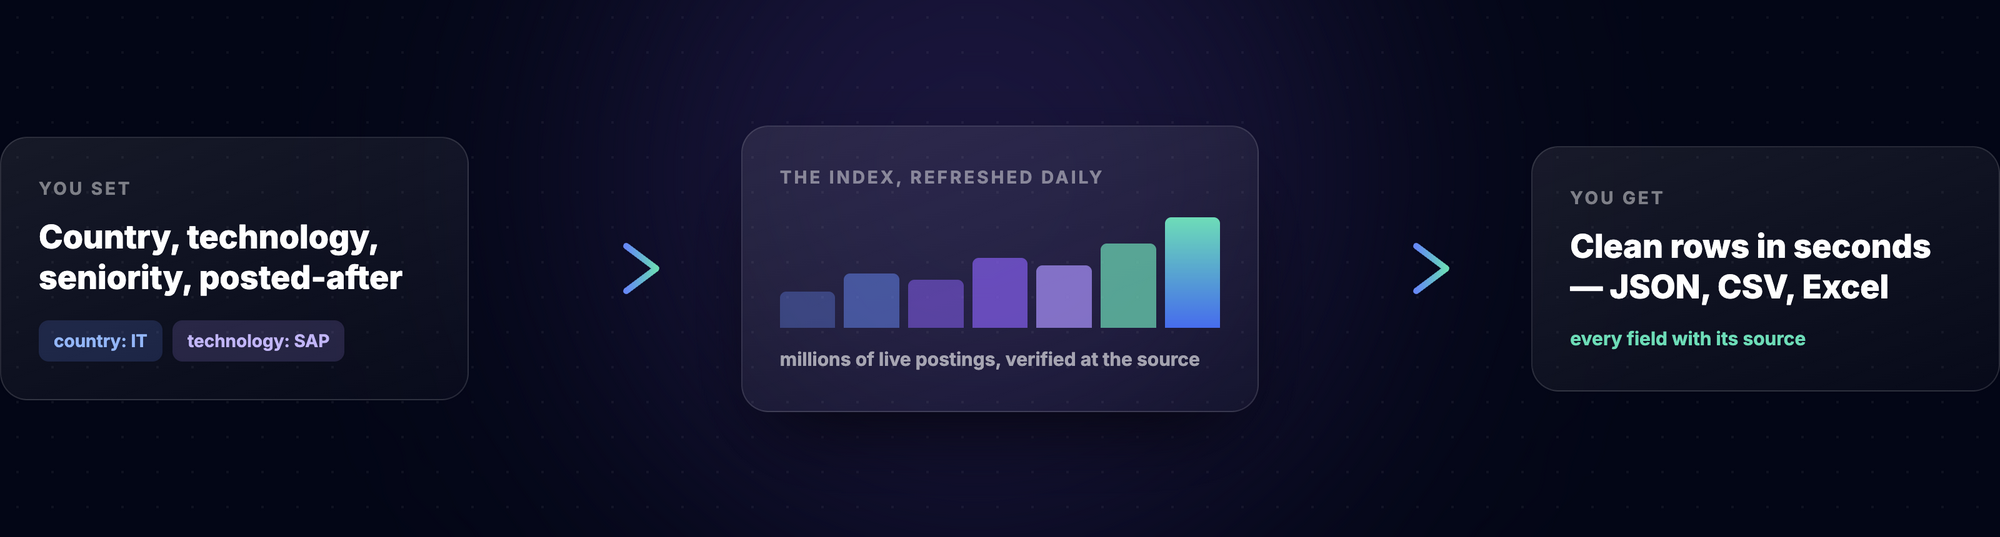
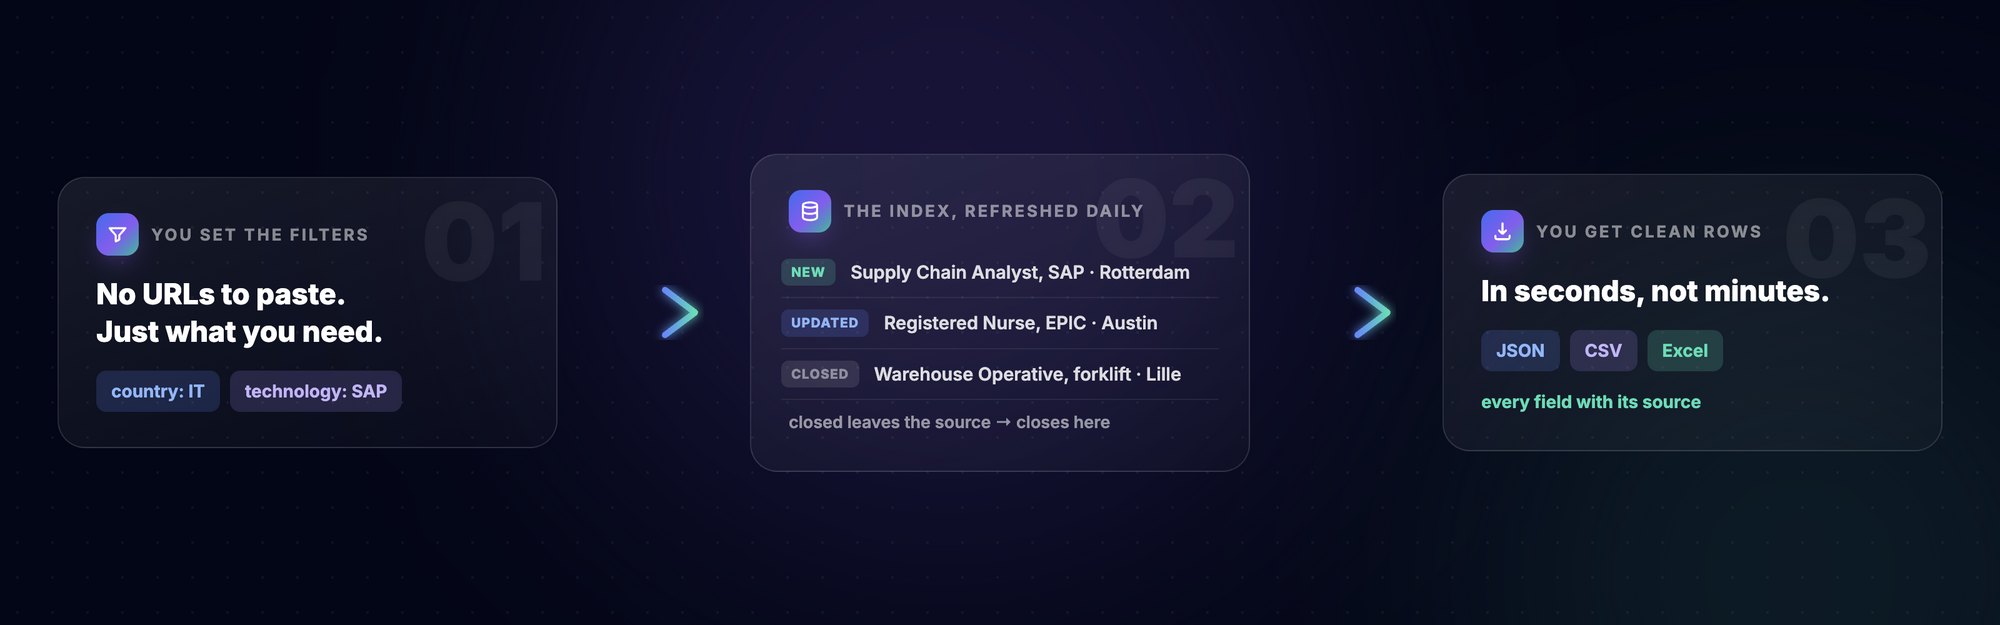
apify: il diagramma v2 su misura per ogni Actor (la sua query nei chip, le sue aziende vere nel feed NEW/UPDATED/CLOSED, frecce con alone, numeri di passo) e la tabella che porta il nostro nome: «Nivult Dataset API», non «this dataset». Quattro pagine, quattro vestiti propri

diff --git a/apify/assets/genera_come_funziona.py b/apify/assets/genera_come_funziona.py
@@ -1,0 +1,114 @@
+#!/usr/bin/env python3
+"""Il diagramma «come funziona» per i README Apify — v2, su misura per
+ogni Actor (06/10/2026). Tre stazioni con icone, il mini-feed di offerte
+vere della nicchia in mezzo (NEW/UPDATED/CLOSED come nella landing),
+frecce gradiente con alone. Rende 4 varianti in vetrina/_come_*.html.
+
+    python apify/assets/genera_come_funziona.py
+"""
+
+BASE_HEAD = """<!DOCTYPE html><html><head><meta charset="utf-8">
+<script src="https://cdn.tailwindcss.com"></script>
+<link href="https://fonts.googleapis.com/css2?family=Inter:wght@500;600;700;800;900&family=JetBrains+Mono:wght@500;600&display=swap" rel="stylesheet">
+<style>body{margin:0}</style></head><body>"""
+
+FRECCIA = """<svg width="86" height="64" viewBox="0 0 86 64" style="flex-shrink:0">
+<defs><linearGradient id="f{id}" x1="0" x2="1"><stop offset="0" stop-color="#5e8bff"/><stop offset="1" stop-color="#2fe0b6"/></linearGradient>
+<filter id="glow{id}"><feGaussianBlur stdDeviation="4" result="b"/><feMerge><feMergeNode in="b"/><feMergeNode in="SourceGraphic"/></feMerge></filter></defs>
+<g filter="url(#glow{id})"><path d="M6 32 H64" stroke="url(#f{id})" stroke-width="5" stroke-linecap="round"/>
+<path d="M52 14 L76 32 L52 50" fill="none" stroke="url(#f{id})" stroke-width="5" stroke-linecap="round" stroke-linejoin="round"/></g></svg>"""
+
+ICONA = {
+    "filtro": '<svg width="17" height="17" viewBox="0 0 24 24" fill="none" stroke="white" stroke-width="2.3" stroke-linecap="round" stroke-linejoin="round"><path d="M3 5h18l-7 8v5l-4 2v-7z"/></svg>',
+    "indice": '<svg width="17" height="17" viewBox="0 0 24 24" fill="none" stroke="white" stroke-width="2.3" stroke-linecap="round" stroke-linejoin="round"><ellipse cx="12" cy="5" rx="8" ry="3"/><path d="M4 5v14c0 1.7 3.6 3 8 3s8-1.3 8-3V5"/><path d="M4 12c0 1.7 3.6 3 8 3s8-1.3 8-3"/></svg>',
+    "download": '<svg width="17" height="17" viewBox="0 0 24 24" fill="none" stroke="white" stroke-width="2.3" stroke-linecap="round" stroke-linejoin="round"><path d="M12 3v12m0 0 4-4m-4 4-4-4"/><path d="M4 17v2a2 2 0 0 0 2 2h12a2 2 0 0 0 2-2v-2"/></svg>',
+}
+
+BADGE = {"NEW": ("rgba(47,224,182,.18)", "#2fe0b6"),
+         "UPDATED": ("rgba(94,139,255,.18)", "#8ab8ff"),
+         "CLOSED": ("rgba(255,255,255,.10)", "rgba(255,255,255,.45)")}
+
+
+def card(num, icona, titolo, corpo, extra=""):
+    return f"""
+    <div style="width:400px;border-radius:22px;border:1px solid rgba(255,255,255,.12);background:linear-gradient(160deg,rgba(255,255,255,.08),rgba(255,255,255,.02));padding:28px 30px;position:relative;overflow:hidden">
+      <span style="position:absolute;top:-14px;right:8px;font-size:86px;font-weight:900;color:rgba(255,255,255,.05);font-family:Inter">{num}</span>
+      <div style="display:flex;align-items:center;gap:10px">
+        <span style="width:34px;height:34px;border-radius:10px;background:linear-gradient(135deg,#3b6ef6,#8b5cf6 55%,#0fbf9a);display:grid;place-items:center;box-shadow:0 8px 20px -6px rgba(139,92,246,.5)">{ICONA[icona]}</span>
+        <p style="margin:0;color:rgba(255,255,255,.5);font-size:13px;font-weight:700;letter-spacing:.14em;font-family:Inter">{titolo}</p>
+      </div>
+      <div style="margin-top:16px">{corpo}</div>{extra}
+    </div>"""
+
+
+def chips(cc):
+    return "".join(
+        f'<span style="border-radius:8px;background:{bg};color:{fg};font-weight:700;font-size:14px;padding:6px 12px;font-family:Inter">{t}</span>'
+        for t, bg, fg in cc)
+
+
+def feed(righe):
+    out = []
+    for badge, testo in righe:
+        bg, fg = BADGE[badge]
+        out.append(f"""
+        <div style="display:flex;align-items:center;gap:12px;padding:9px 0;border-bottom:1px solid rgba(255,255,255,.07)">
+          <span style="border-radius:6px;background:{bg};color:{fg};font-weight:800;font-size:10.5px;padding:3px 8px;letter-spacing:.06em;font-family:Inter;flex-shrink:0">{badge}</span>
+          <span style="color:rgba(255,255,255,.85);font-size:14.5px;font-weight:600;font-family:Inter;white-space:nowrap;overflow:hidden;text-overflow:ellipsis">{testo}</span>
+        </div>""")
+    return "".join(out)
+
+
+def pagina(chip1, righe_feed):
+    c1 = card("01", "filtro", "YOU SET THE FILTERS",
+              f'<p style="margin:0;color:white;font-size:23px;font-weight:800;line-height:1.3;font-family:Inter">No URLs to paste.<br>Just what you need.</p>'
+              f'<div style="margin-top:16px;display:flex;gap:8px;flex-wrap:wrap">{chips(chip1)}</div>')
+    c2 = card("02", "indice", "THE INDEX, REFRESHED DAILY",
+              f'<div style="margin:-4px -6px">{feed(righe_feed)}</div>'
+              '<p style="margin:12px 0 0;color:rgba(255,255,255,.55);font-size:13.5px;font-weight:600;font-family:Inter">closed leaves the source &rarr; closes here</p>')
+    c3 = card("03", "download", "YOU GET CLEAN ROWS",
+              '<p style="margin:0;color:white;font-size:23px;font-weight:800;line-height:1.3;font-family:Inter">In seconds, not minutes.</p>'
+              f'<div style="margin-top:16px;display:flex;gap:8px;flex-wrap:wrap">{chips([("JSON", "rgba(94,139,255,.18)", "#8ab8ff"), ("CSV", "rgba(167,139,250,.18)", "#c4b5fd"), ("Excel", "rgba(47,224,182,.18)", "#2fe0b6")])}</div>'
+              '<p style="margin:14px 0 0;color:#2fe0b6;font-size:14px;font-weight:700;font-family:Inter">every field with its source</p>')
+    return BASE_HEAD + f"""
+<div style="width:1600px;height:500px;position:relative;overflow:hidden;background:#020617;font-family:Inter,sans-serif">
+  <div style="position:absolute;top:-170px;left:28%;width:620px;height:620px;border-radius:50%;background:#8b5cf6;opacity:.16;filter:blur(120px)"></div>
+  <div style="position:absolute;bottom:-220px;right:-100px;width:520px;height:520px;border-radius:50%;background:#0fbf9a;opacity:.12;filter:blur(110px)"></div>
+  <div style="position:absolute;inset:0;background-image:radial-gradient(rgba(255,255,255,.05) 1.2px,transparent 1.2px);background-size:28px 28px"></div>
+  <div style="position:absolute;inset:0;display:flex;align-items:center;justify-content:center;gap:34px">
+    {c1}{FRECCIA.format(id="a")}{c2}{FRECCIA.format(id="b")}{c3}
+  </div>
+</div></body></html>"""
+
+
+VARIANTI = {
+    "principale": (
+        [("country: IT", "rgba(94,139,255,.18)", "#8ab8ff"),
+         ("technology: SAP", "rgba(167,139,250,.18)", "#c4b5fd")],
+        [("NEW", "Supply Chain Analyst, SAP · Rotterdam"),
+         ("UPDATED", "Registered Nurse, EPIC · Austin"),
+         ("CLOSED", "Warehouse Operative, forklift · Lille")]),
+    "workday": (
+        [("ats: workday", "rgba(47,224,182,.18)", "#2fe0b6"),
+         ("country: DE", "rgba(94,139,255,.18)", "#8ab8ff")],
+        [("NEW", "Manager, Finance &amp; Strategy · Flextronics"),
+         ("UPDATED", "Pflegefachkraft (m/w/d) · Stuttgart"),
+         ("CLOSED", "Werkstudent Quality · Quality Mgmt")]),
+    "greenhouse": (
+        [("ats: greenhouse", "rgba(47,224,182,.18)", "#2fe0b6"),
+         ("remote", "rgba(94,139,255,.18)", "#8ab8ff")],
+        [("NEW", "Analytics Engineer · VTEX"),
+         ("NEW", "Backend Engineer, Python · Berlin"),
+         ("CLOSED", "Biomedical Scientist · Hertfordshire")]),
+    "tecnologie": (
+        [("technology: Snowflake", "rgba(167,139,250,.18)", "#c4b5fd"),
+         ("posted-after", "rgba(94,139,255,.18)", "#8ab8ff")],
+        [("NEW", "Delivery Manager · Hanover"),
+         ("NEW", "Senior IT Data Engineer · Springdale"),
+         ("UPDATED", "Senior BI Analyst · Cape Town")]),
+}
+
+if __name__ == "__main__":
+    for nome, (cc, righe) in VARIANTI.items():
+        open(f"vetrina/_come_{nome}.html", "w").write(pagina(cc, righe))
+        print("generata:", nome)

diff --git a/apify/greenhouse-jobs-dataset/README.md b/apify/greenhouse-jobs-dataset/README.md
@@ -19,7 +19,7 @@ Scrape-on-demand actors ask you for career-site URLs and minutes of your
 patience, then hand you raw rows. **This dataset asks for nothing but
 filters** — the reading already happened today, whether you run us or not.
 
-| | Scrape-on-demand | **This dataset** |
+| | Scrape-on-demand | **Nivult Dataset API** |
 |---|---|---|
 | You supply | URLs you must know | nothing — just filters |
 | Answer in | minutes | **seconds** |
@@ -27,7 +27,7 @@ filters** — the reading already happened today, whether you run us or not.
 | Enrichment | raw title + link | seniority, workplace, language, skills |
 | Provenance | none | **field-level, on every row** |
 
-![How it works: you set filters, the index refreshes daily, you get clean rows in seconds](https://raw.githubusercontent.com/granno-dev/nivult-engine/main/apify/assets/come-funziona.png)
+![How it works: you set filters, the index refreshes daily, you get clean rows in seconds](https://raw.githubusercontent.com/granno-dev/nivult-engine/main/apify/assets/come-greenhouse.png)
 
 ## How to use it
 

diff --git a/apify/jobs-by-technology/README.md b/apify/jobs-by-technology/README.md
@@ -20,7 +20,7 @@ Scrape-on-demand actors ask you for career-site URLs and minutes of your
 patience, then hand you raw rows. **This dataset asks for nothing but
 filters** — the reading already happened today, whether you run us or not.
 
-| | Scrape-on-demand | **This dataset** |
+| | Scrape-on-demand | **Nivult Dataset API** |
 |---|---|---|
 | You supply | URLs you must know | nothing — just filters |
 | Answer in | minutes | **seconds** |
@@ -28,7 +28,7 @@ filters** — the reading already happened today, whether you run us or not.
 | Enrichment | raw title + link | seniority, workplace, language, skills |
 | Provenance | none | **field-level, on every row** |
 
-![How it works: you set filters, the index refreshes daily, you get clean rows in seconds](https://raw.githubusercontent.com/granno-dev/nivult-engine/main/apify/assets/come-funziona.png)
+![How it works: you set filters, the index refreshes daily, you get clean rows in seconds](https://raw.githubusercontent.com/granno-dev/nivult-engine/main/apify/assets/come-tecnologie.png)
 
 ## How to use it
 

diff --git a/apify/workday-jobs-dataset/README.md b/apify/workday-jobs-dataset/README.md
@@ -19,7 +19,7 @@ Scrape-on-demand actors ask you for career-site URLs and minutes of your
 patience, then hand you raw rows. **This dataset asks for nothing but
 filters** — the reading already happened today, whether you run us or not.
 
-| | Scrape-on-demand | **This dataset** |
+| | Scrape-on-demand | **Nivult Dataset API** |
 |---|---|---|
 | You supply | URLs you must know | nothing — just filters |
 | Answer in | minutes | **seconds** |
@@ -27,7 +27,7 @@ filters** — the reading already happened today, whether you run us or not.
 | Enrichment | raw title + link | seniority, workplace, language, skills |
 | Provenance | none | **field-level, on every row** |
 
-![How it works: you set filters, the index refreshes daily, you get clean rows in seconds](https://raw.githubusercontent.com/granno-dev/nivult-engine/main/apify/assets/come-funziona.png)
+![How it works: you set filters, the index refreshes daily, you get clean rows in seconds](https://raw.githubusercontent.com/granno-dev/nivult-engine/main/apify/assets/come-workday.png)
 
 ## How to use it
 

diff --git a/apify/README.md b/apify/README.md
@@ -4,7 +4,7 @@
 
 Most job actors ask you for career-site URLs, then spend minutes scraping them, then hand you raw rows. **This Actor asks for nothing but filters** — and answers in seconds, because the work is already done: we read the career systems of tens of thousands of employers **every day**, whether you run us or not.
 
-| | Scrape-on-demand actors | **Nivult Job Index** |
+| | Scrape-on-demand actors | **Nivult Dataset API** |
 |---|---|---|
 | You supply | career-site URLs you must know | nothing — just filters |
 | Answer in | minutes of scraping | **seconds** |
